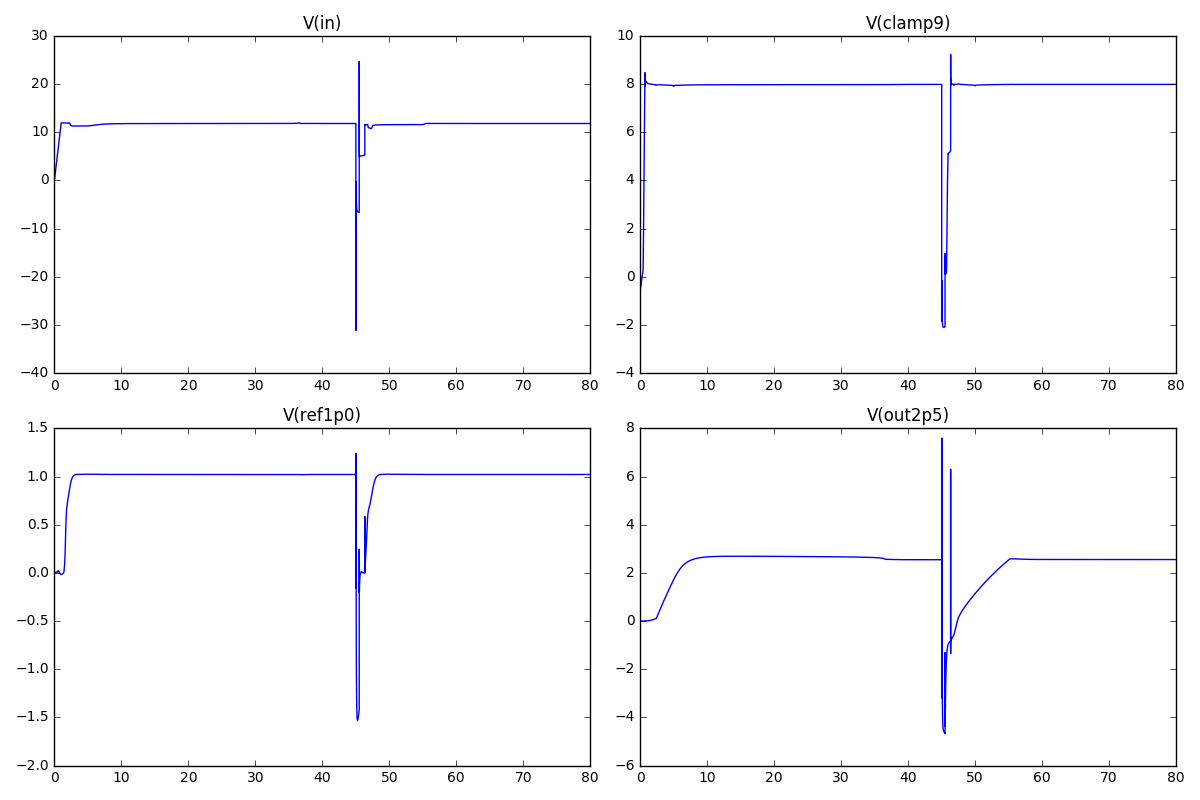
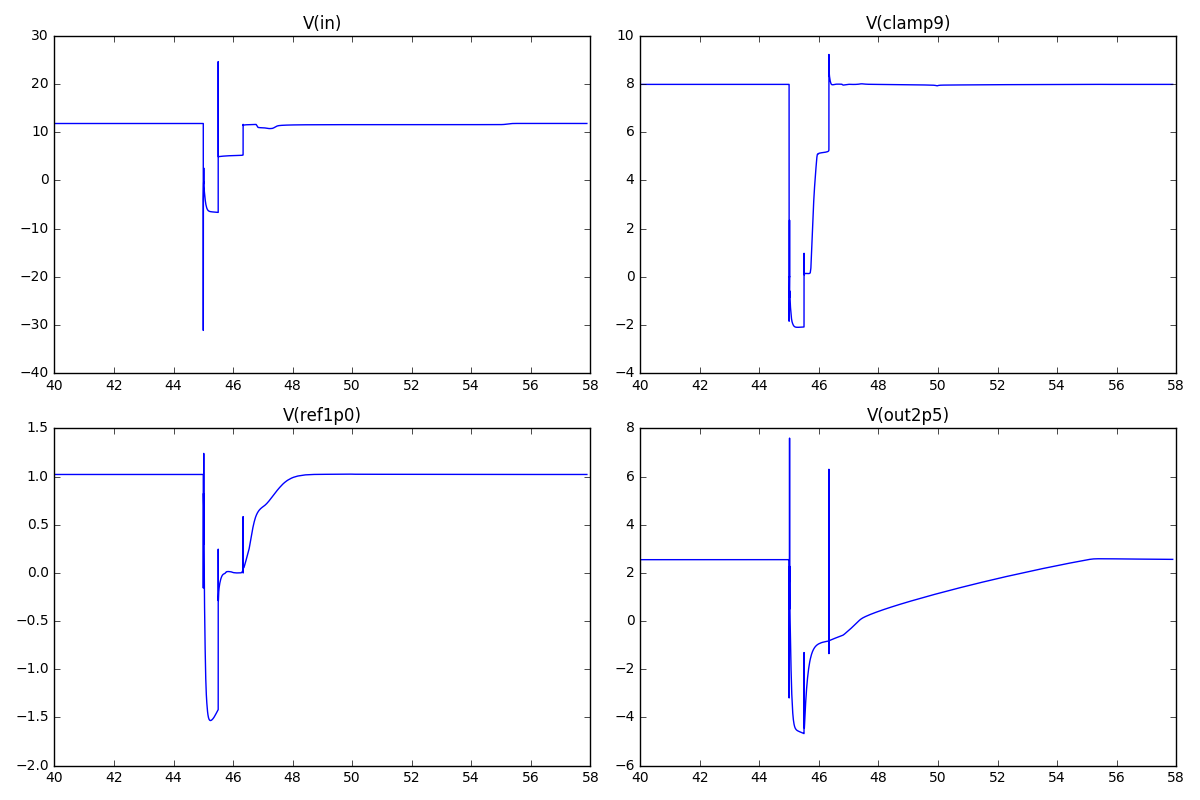
Update figures and sec4

diff --git a/src/4/sections/s1-application.tex b/src/4/sections/s1-application.tex
@@ -113,12 +113,14 @@ Those results are then tested against a complete simulation of the entire regula
 The simulation circuit is given Fig. \ref{fig:reference_simu_circuit}.
 This simulation uses transistor-level block models.
 It will serve as a reference to compare the model-chain against it.
+%TODO: Speak about simplifications in this circuit. Not consistent with failure case represented in previous chapter
 
 % How will the simulation be conducted
 For this simulation, the same input stress are used than previously, and the global output is monitored for failures.
 To check the validity of the models at each stage, intermediate voltages are also monitored, at the output of the pre-regulator and the bandgap.
 The simulation of the input, pre-regulator output, bandgap output and final (regulator) output are given fig. \ref{fig:reference_simu}.
 
+%TODO: Add perfect sources in schematic
 \begin{figure}[!htbp]
   \centering
   \includegraphics[width=\textwidth]{src/4/figures/complete_simulation_setup.pdf}
@@ -126,81 +128,50 @@ The simulation of the input, pre-regulator output, bandgap output and final (reg
   \label{fig:reference_simu_circuit}
 \end{figure}
 
-%TODO: Zoom on the area of interest
+%TODO: To replace with one extracted with perfect sources
 \begin{figure}[!htbp]
   \centering
   \includegraphics[width=\textwidth]{src/4/figures/total_simulation.png}
-  \caption{Reference simulation waveforms}
+  \caption{Reference simulation waveform - TLP stress -30V 1us }
   \label{fig:reference_simu}
 \end{figure}
 
 % Result of the simulation
-The simulation showed that for the given stress, the output V(out2p5) will go below 2.1V for 8160ns.
-%TODO: Make the comparison with chain models
-There is a rather large difference with the model chain.
-To try to explain this difference, intermediates nodes are monitored.
+The reference simulation showed that for a -30V 1us TLP stress, the output V(out2p5) does not fall below 2.1V.
+The minimal value is 2.15V.
+As a reminder, with the same conditions, the chain of models estimated the output to go below 2.1V for 1500ns, without informations regarding minimal value.
+To understand those differences, intermediate nets are now observed.
 
 % Error at the first block
-The output of the pre-regulator is below X V (failure criteria) for XX ns in the full simulation while the model predicted XX ns.
-Already, at this first block, there is a large difference between the simulation and the model.
+At the output of the first block (the pre-regulator), the reference simulation shows voltage going below 0V (failure criteria) for 1000ns.
+The model predicted 2300 ns.
+At the first block's output, there is a factor of 2 between model and reference simulation.
 
 % Error at the second block
-The output of the bandgap (second block) shows even a higher difference.
-In simulation, the output goes below XX V for XXX ns, while the model predicted XXX ns.
-
-% Conclusion regarding this first simulation
-Not only each curve introduces an important error, but errors tend to accumulate after each block.
+At the output the second block (bandgap), the reference simulation falls below 0V during approximately 1800 ns.
+The minimal reached value is -0.8V
+The model predicted the voltage to go below 0V for 3000 ns.
+No clear conclusion can be drawn yet on the model validity.
 
 % Test further simulation vs model
-To test further the model versus the reference simulation, a set of different stresses are injected, with different properties.
-The goal is to test the model on a larger set of input stresses.
-For each stress, the result predicted by the model and the result obtained by the reference simulation are compared.
-Results are summarized in table \ref{tab:comparison-multiple-pulses}.
-The entire process is summarized in fig. X.
+To test it further, a set of reference simulations is ran, with variable pulse amplitude and length.
+The goal is to get more reference data to test the model against.
+For each stress, the result predicted by the model and the reference simulation are compared.
 
-\begin{table}[!htbp]
-\centering
-\begin{tabular}{@{}|c|c|c|c|@{}}
-\toprule
-\multicolumn{2}{|c|}{\begin{tabular}[c]{@{}c@{}}Stress\\ properties\end{tabular}} & \multicolumn{2}{c|}{Results} \\ \midrule
-duration (ns)                           & amplitude (V)                           & Reference      & Model       \\ \midrule
-1 ns                                    & -5V                                     & no fail        & no fail     \\ \midrule
-1 ns                                    & -10V                                    &                &             \\ \midrule
-1 ns                                    & -15V                                    &                &             \\ \midrule
-10 ns                                   & -5V                                     & fail 10ns      &             \\ \midrule
-10 ns                                   & -10V                                    &                &             \\ \midrule
-10 ns                                   & -15V                                    &                &             \\ \midrule
-50 ns                                   & -5V                                     &                &             \\ \midrule
-50 ns                                   & -10V                                    &                &             \\ \midrule
-50 ns                                   & -15V                                    &                &             \\ \midrule
-500 ns                                  & -5V                                     &                &             \\ \midrule
-500 ns                                  & -10V                                    &                &             \\ \midrule
-500 ns                                  & -15V                                    &                &             \\ \bottomrule
-\end{tabular}
-\caption{Comparison between simulation and reference for several pulse configurations}
-\label{tab:comparison-multiple-pulses}
-\end{table}
+% Preliminary conclusion regarding the results, differences observed
+The simulation is ran with stresses ranging from (-2V, 1ns) to (-50V, 1us).
+In the case of the reference simulations, no failure is ever recorded.
+The models on the opposite predict that in the worst case (-50V, 1us) the regulator's output will go below 2.1V for 2us.
 
-% Conclusion regarding the tables, differences observed
+% Observe intermediate nets
+%TODO:
+Full simu: vlamp9 1us, v1p0 2us
+With model: vclamp9 2800 ns, v1p0 3200ns
 
-%TODO Review next
-% Where does error come from ? Load impedance
-Previously, it was indicated that all WnB curves were extracted with a fixed Zout = 1M\textOmega.
-When connected together, each block (pre-regulator, bandgap, regulator) sees a load impedance on its output much different than that.
-Thus, it is important to evaluate the impact of this value on the Wunsch and Bell characterization curve.
-The pre-regulator is characterized again, this time with a load impedance of 100\textOmega.
-This value is rather small impedance, but sufficiently high to not draw too much current on the pre-regulator.
-This second characterization is given fig. X.
+% Conclusion regarding the results
+In conclusion, the model was tested against reference simulations on a wide range of input stresses.
+There does not seem to be any clear correlation between the two.
+The model seems to not fit the simulation at all, in the current conditions of its extraction.
 
-%TODO: CHARACTERIZATION WITH Z LOW IMPEDANCE
-
-This characterization is compared with the one extracted with 1M\textOmega\.
-To make the comparison easier, curves for failure above 1ns, 10ns, 100 ns and 1us were plotted separately (see fig. X).
-MAKE COMPARISON
-
-%TODO: COMPARISON Z LOW IMPEDANCE Z HIGH IMPEDANCE 2 * 2 1n -> 1u
-
-SO FAR, CONSIDERED IMPEDANCE AS STATIC AND REAL.
-TALK ABOUT IMAGINARY IMPEDANCES, AND DYNAMIC IMPEDANCES
-
-TALK ABOUT ERROR CAUSED BY GRADIENT ?
+In regard of these problems, the next section will discuss pitfalls of this bottom-up characterization and modelling method.
+Potential workaround will be detailed.
